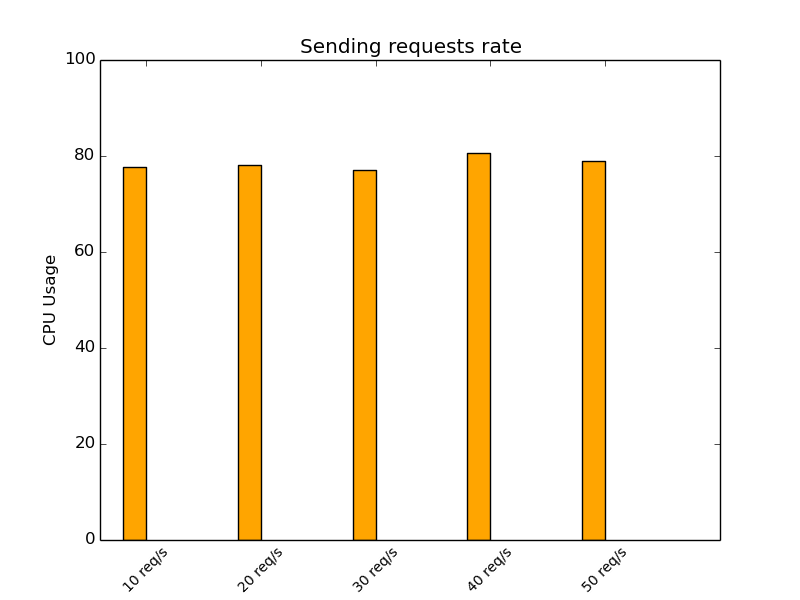
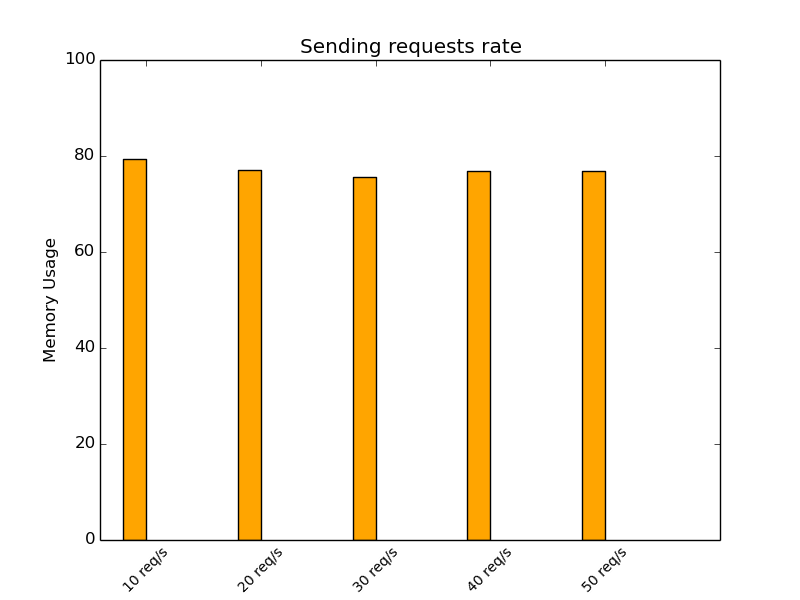
Plots and scripts

diff --git a/Version3/scripts/test.py b/Version3/scripts/test.py
@@ -317,13 +317,13 @@ def make_plot(location):
   #                     color='green',
   #                     error_kw=dict(elinewidth=2,ecolor='green'))
 
-  # rects4 = ax.bar(ind, mem_arr, width,
-  #                     color='orange',
-  #                     error_kw=dict(elinewidth=2,ecolor='orange'))
+  rects4 = ax.bar(ind, mem_arr, width,
+                      color='orange',
+                      error_kw=dict(elinewidth=2,ecolor='orange'))
 
-  rects4 = ax.bar(ind, cpu_arr, width,
-                      color='blue',
-                      error_kw=dict(elinewidth=2,ecolor='blue'))
+  # rects4 = ax.bar(ind, cpu_arr, width,
+  #                     color='blue',
+  #                     error_kw=dict(elinewidth=2,ecolor='blue'))
 
   # axes and labels
   ax.set_xlim(-width,len(ind)+width)
@@ -333,8 +333,11 @@ def make_plot(location):
   
   # ax.set_ylabel('Ratio')
   # ax.set_title('Communication between Sprout and Homestead')
-  ax.set_ylabel('CPU Usage')
+  ax.set_ylabel('Memory Usage')
   ax.set_title('Sending requests rate')
+
+  # ax.set_ylabel('CPU Usage')
+  # ax.set_title('Sending requests rate')
 
   xTickMarks = [str(i*10)+' req/s' for i in range(1,6)]
   ax.set_xticks(ind+width)
@@ -349,7 +352,7 @@ def make_plot(location):
 
 def plot_memory():
     for i in xrange(0,5):
-        mem_arr.append(float(random.randint(435,500))/float(7));
+        mem_arr.append(float(random.randint(524,563))/float(7));
     make_plot("../Graphs/Memory-Usage")
 
 def plot_cpu():
@@ -651,5 +654,5 @@ def print_maps(x):
 # plot_graphs()
 # plot_throughput()
 # print_maps(int(sys.argv[1]))
-# plot_memory()
-plot_cpu()
+plot_memory()
+# plot_cpu()
